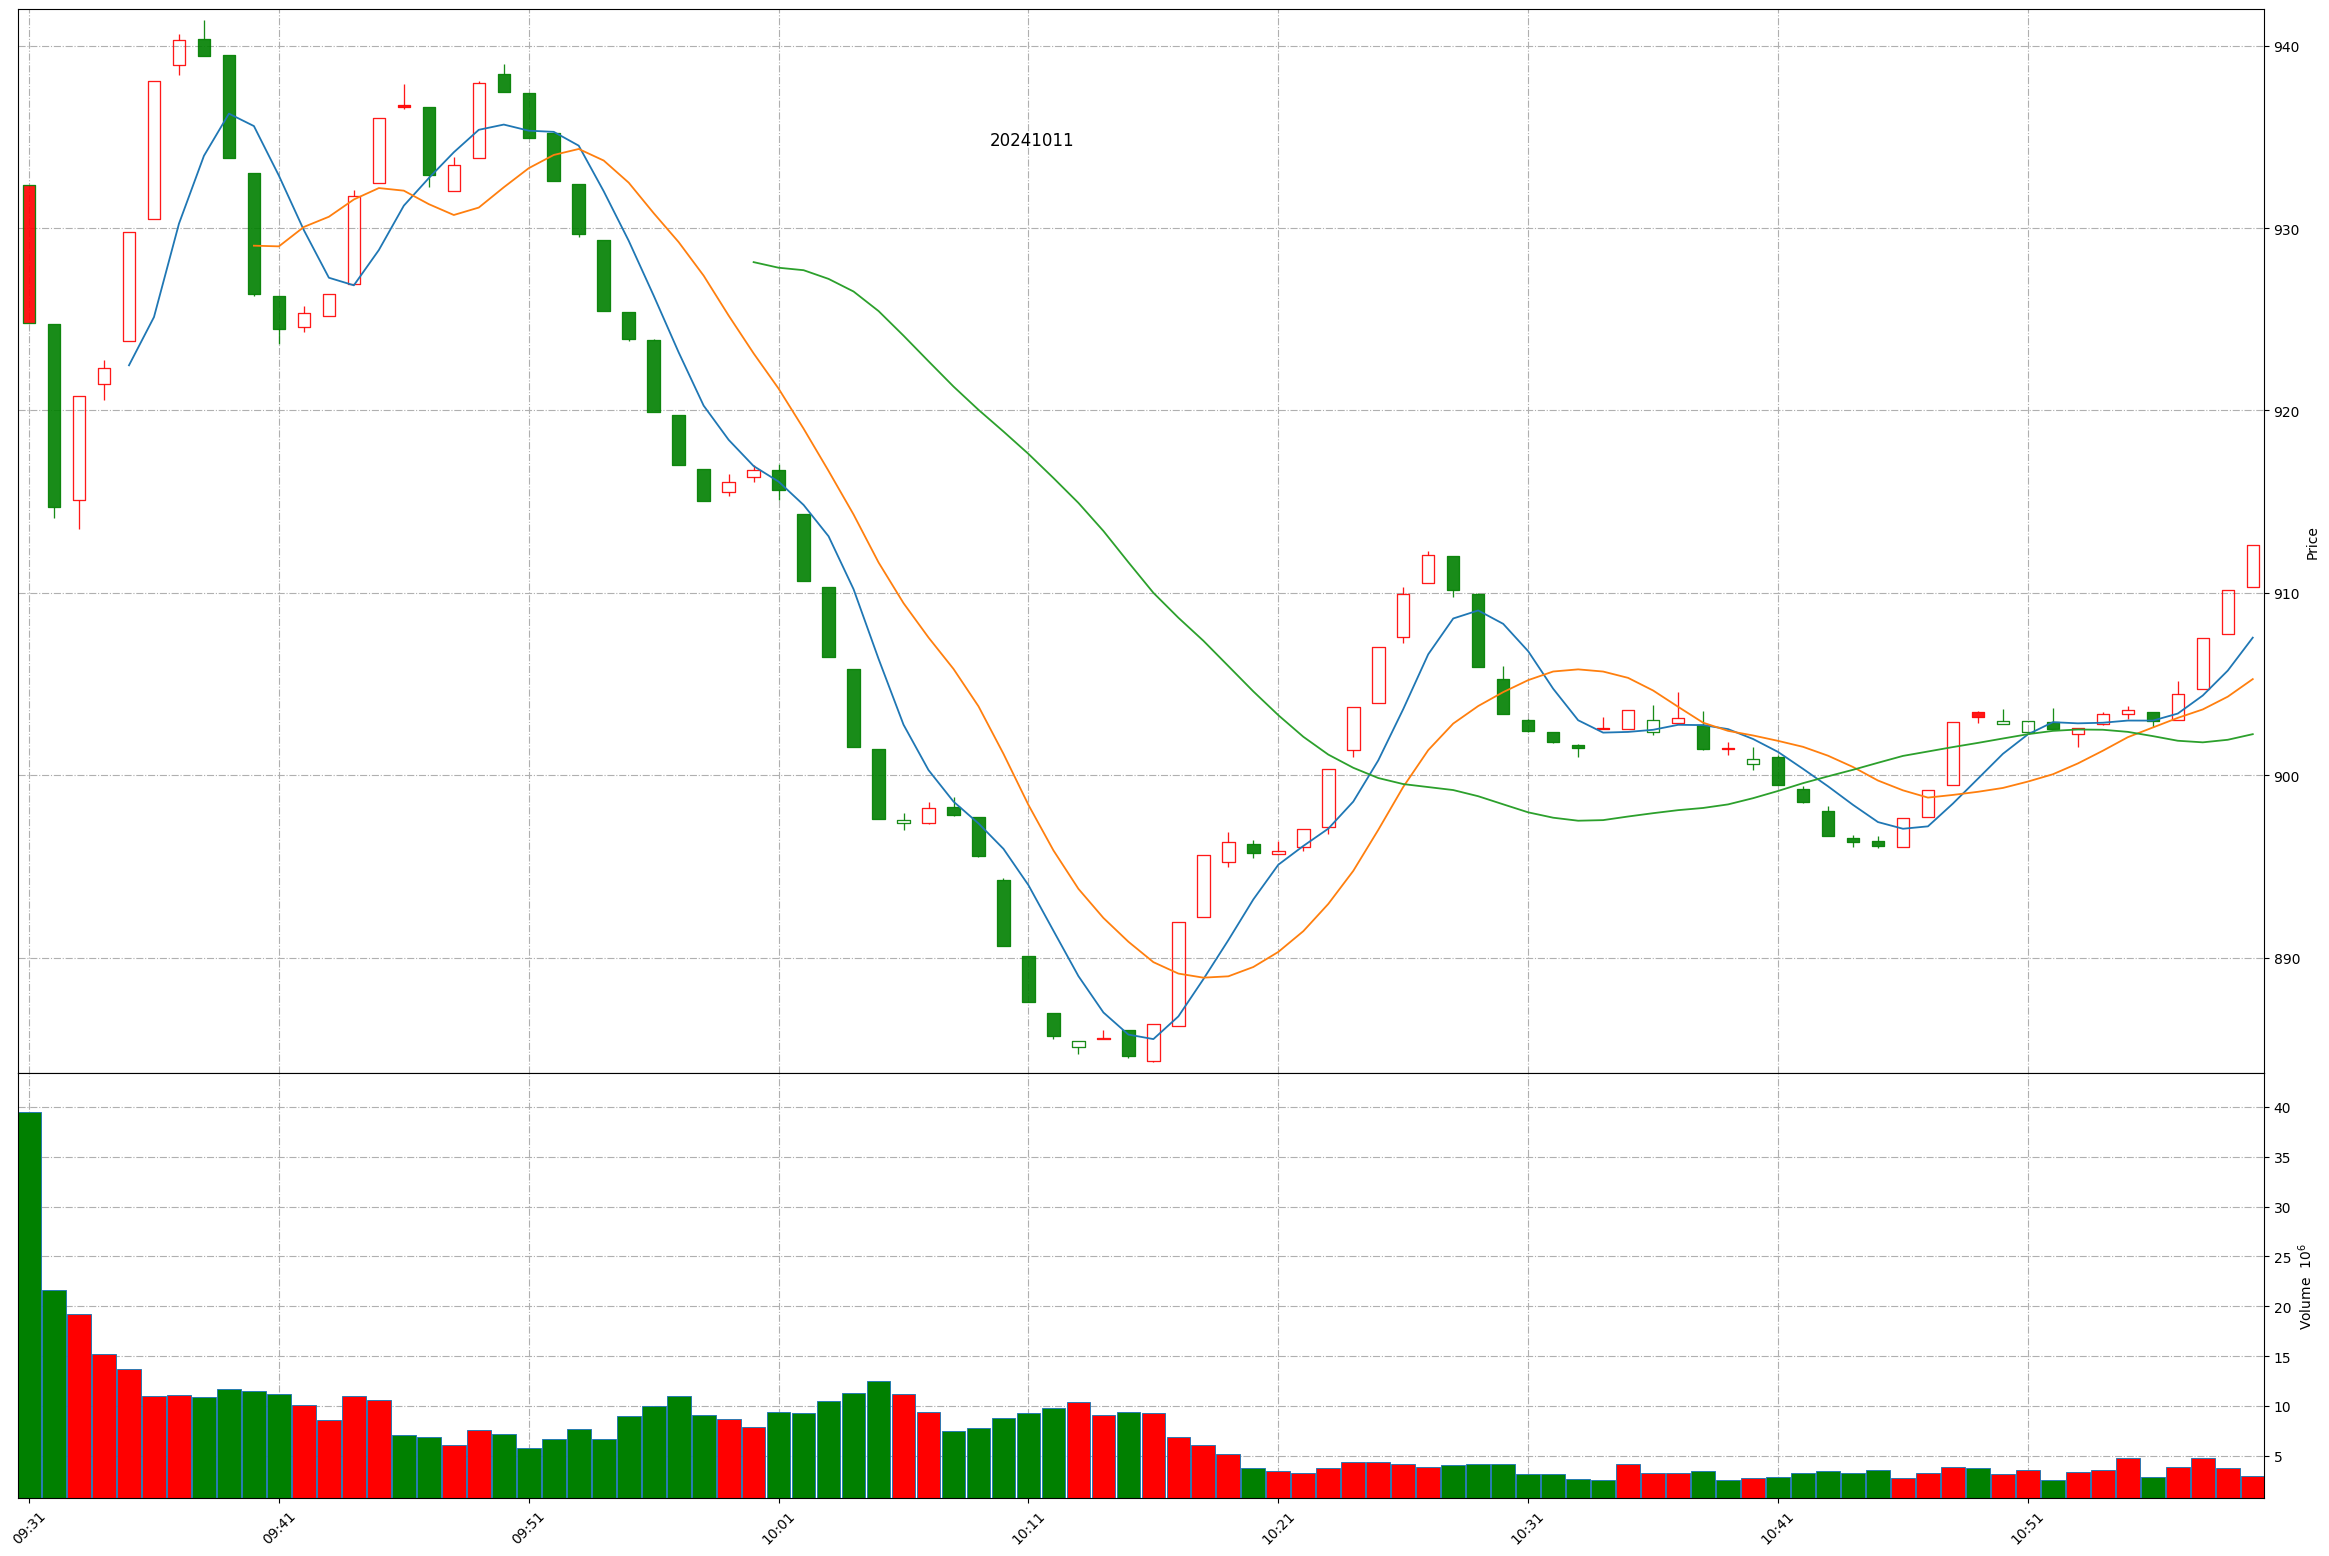
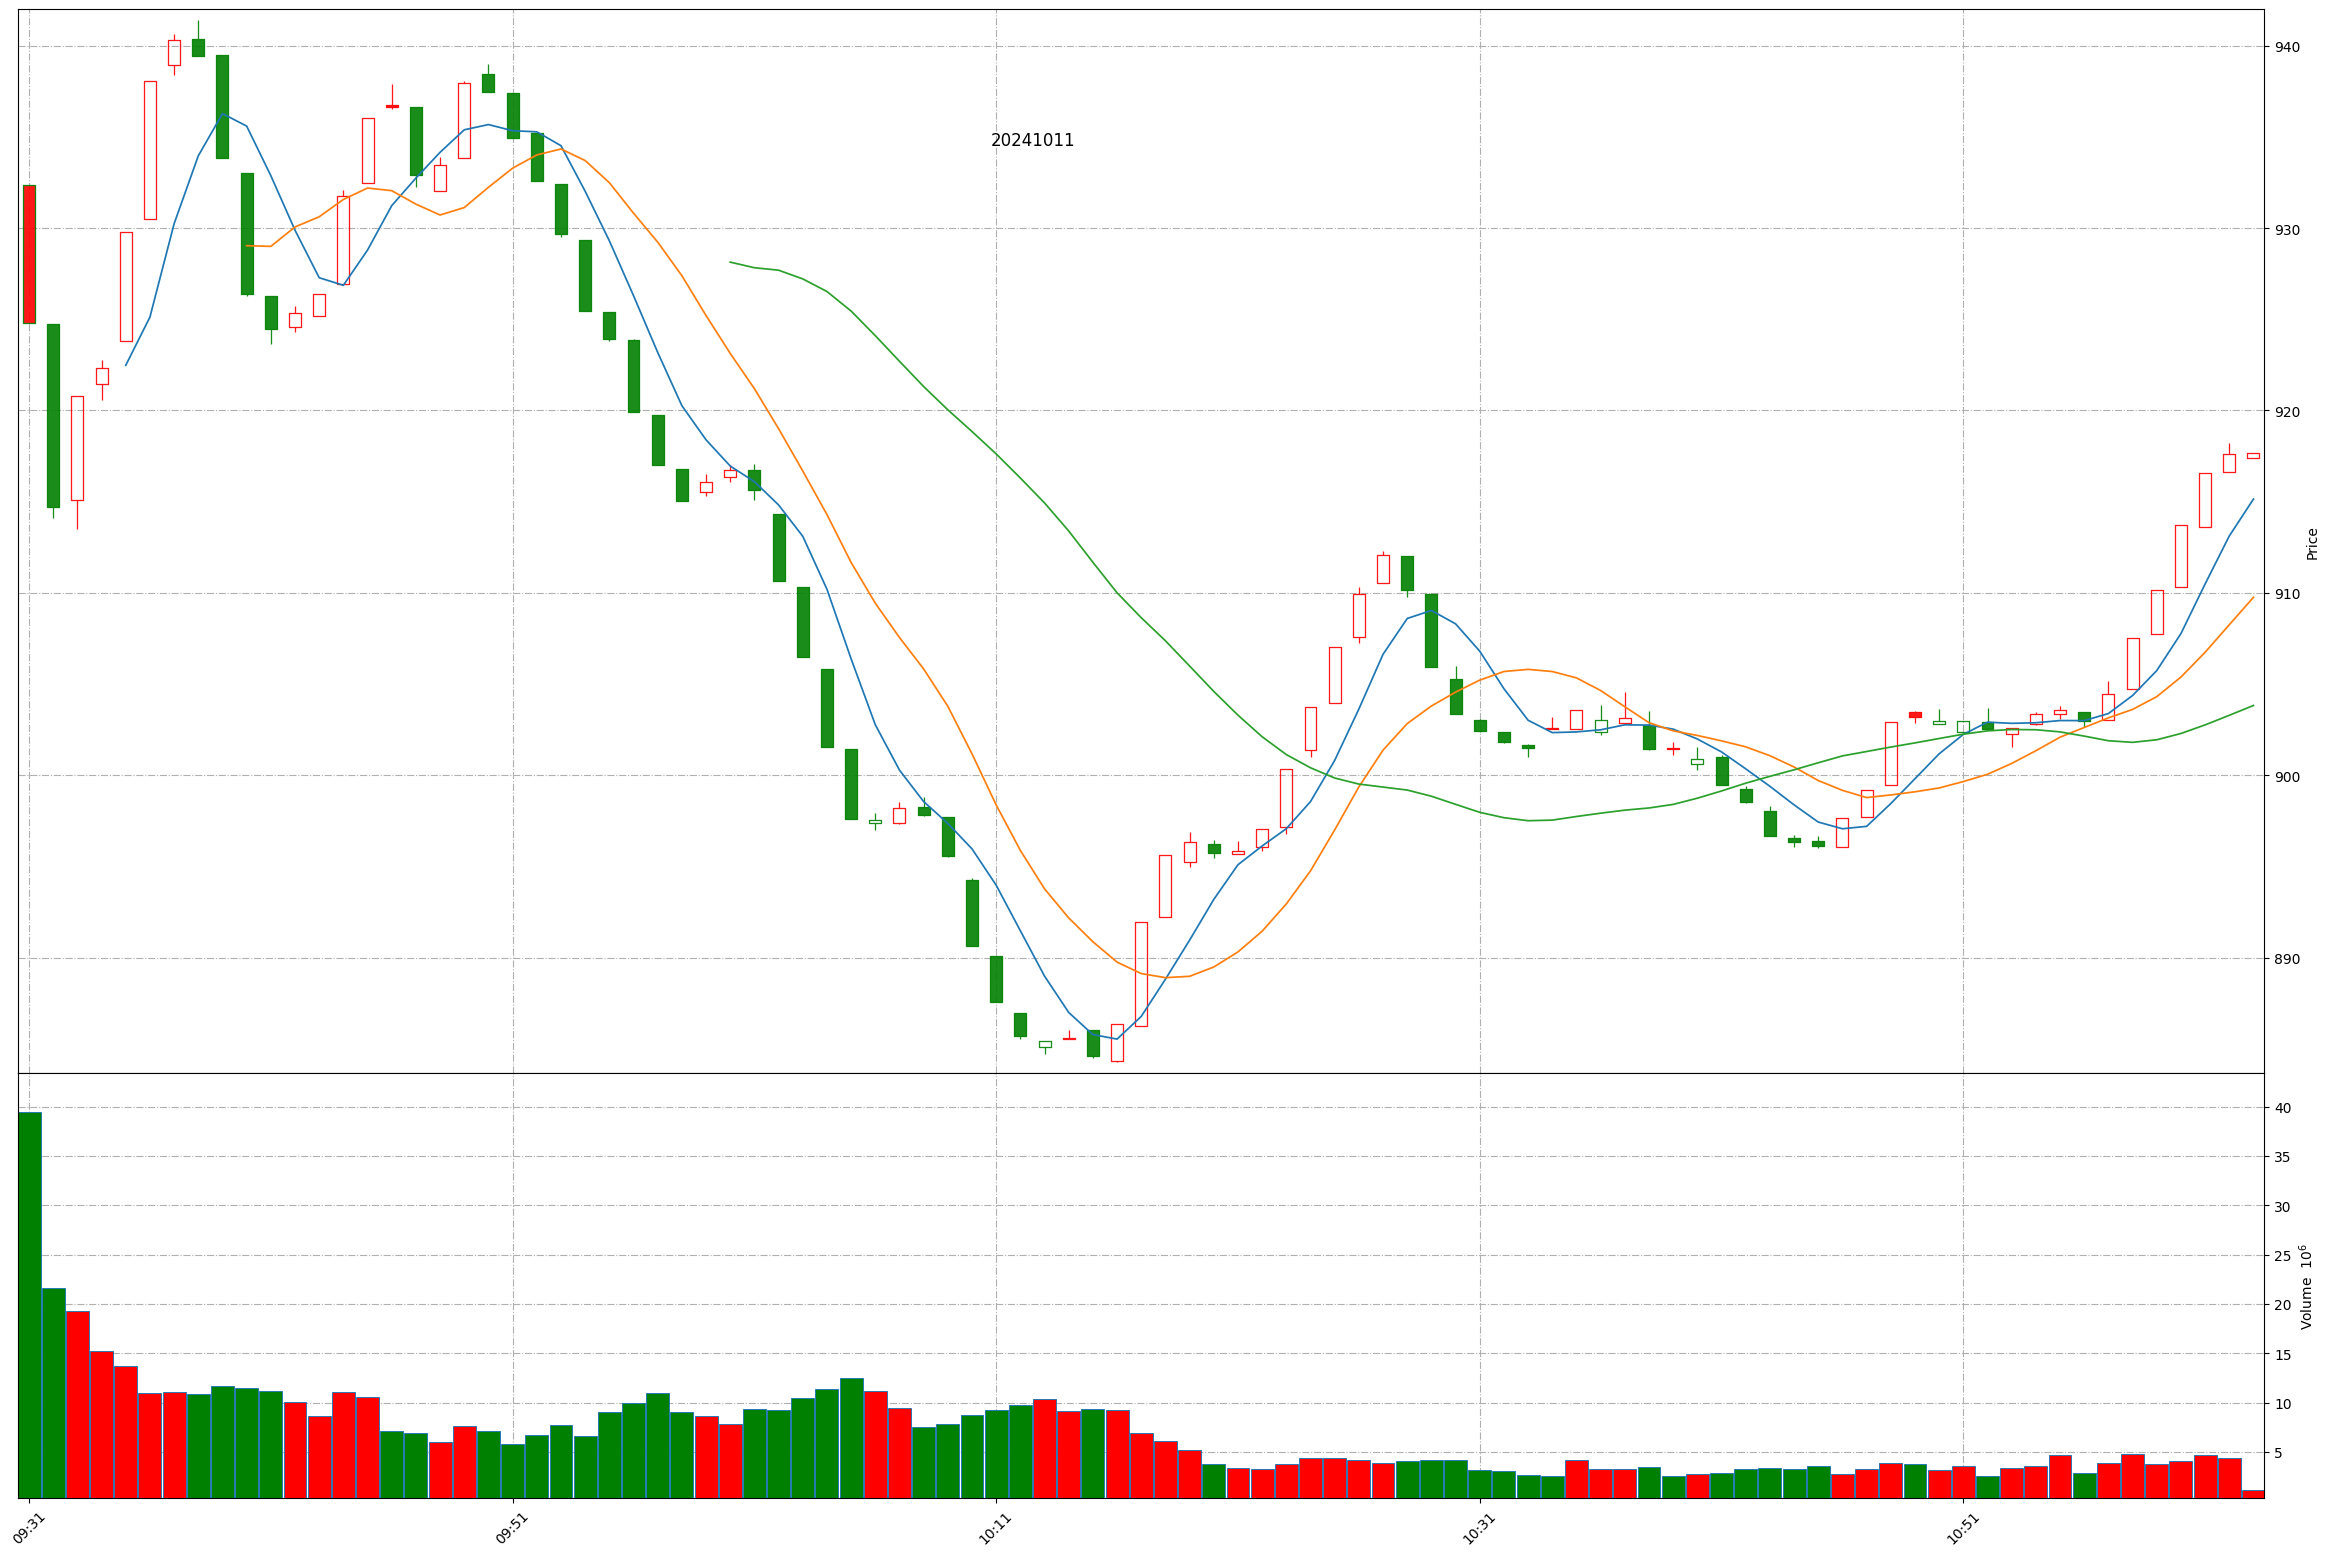
Github action update at 2024-10-11 11:02:23.

diff --git a/README.md b/README.md
@@ -1,11 +1,11 @@
 
 # Daily-A-share-market-quotes 每日 A 股指数（5min 更新）- 20241011
 
-### 上证指数 20241011 10:59
+### 上证指数 20241011 11:2
 ![](./fig/2024/10/20241011-sh000001.png)
 
-### 深证成指 20241011 10:59
+### 深证成指 20241011 11:2
 ![](./fig/2024/10/20241011-sz399001.png)
 
-### 北证50 20241011 10:59
+### 北证50 20241011 11:2
 ![](./fig/2024/10/20241011-bj899050.png)
